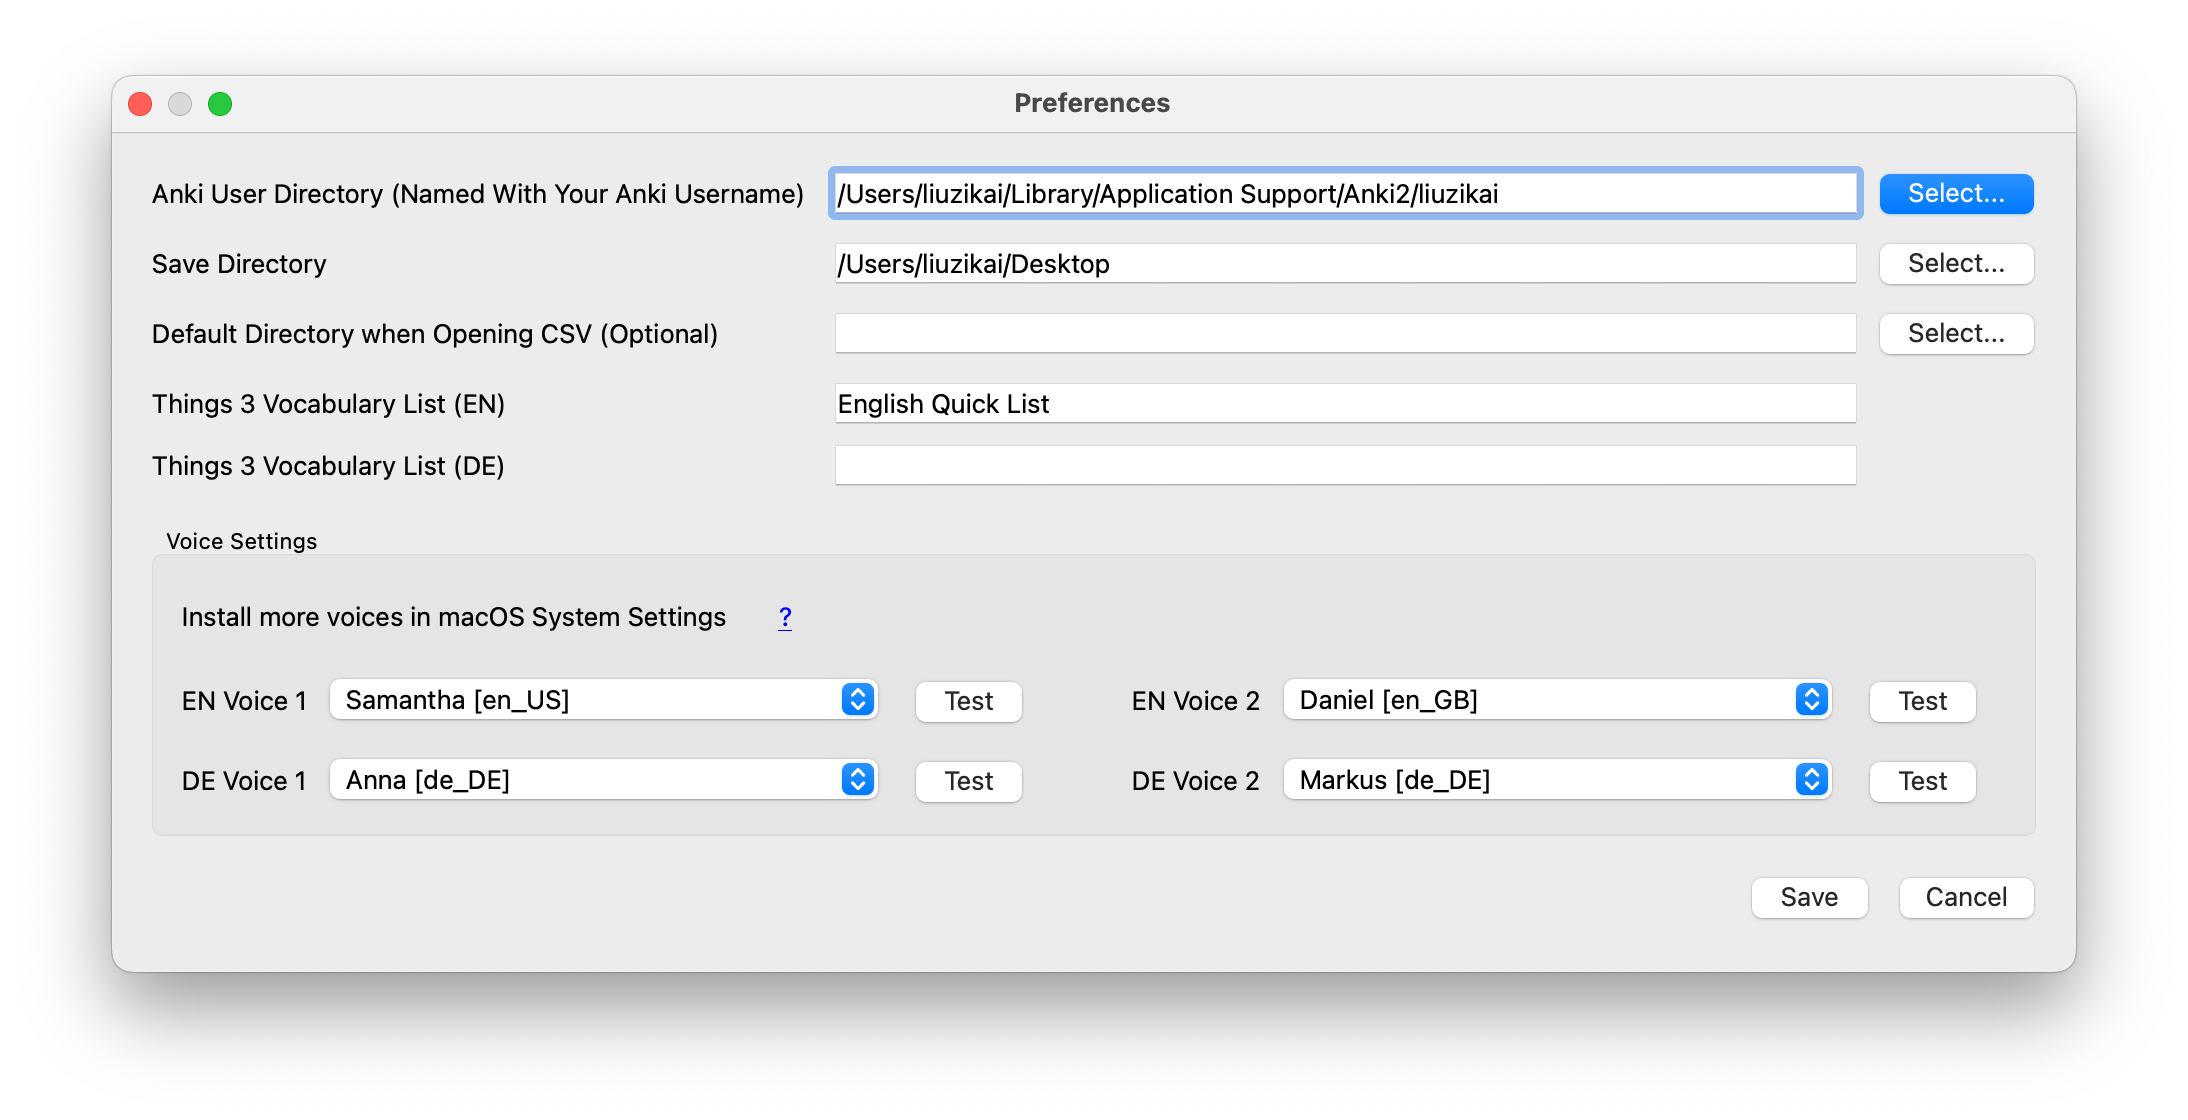
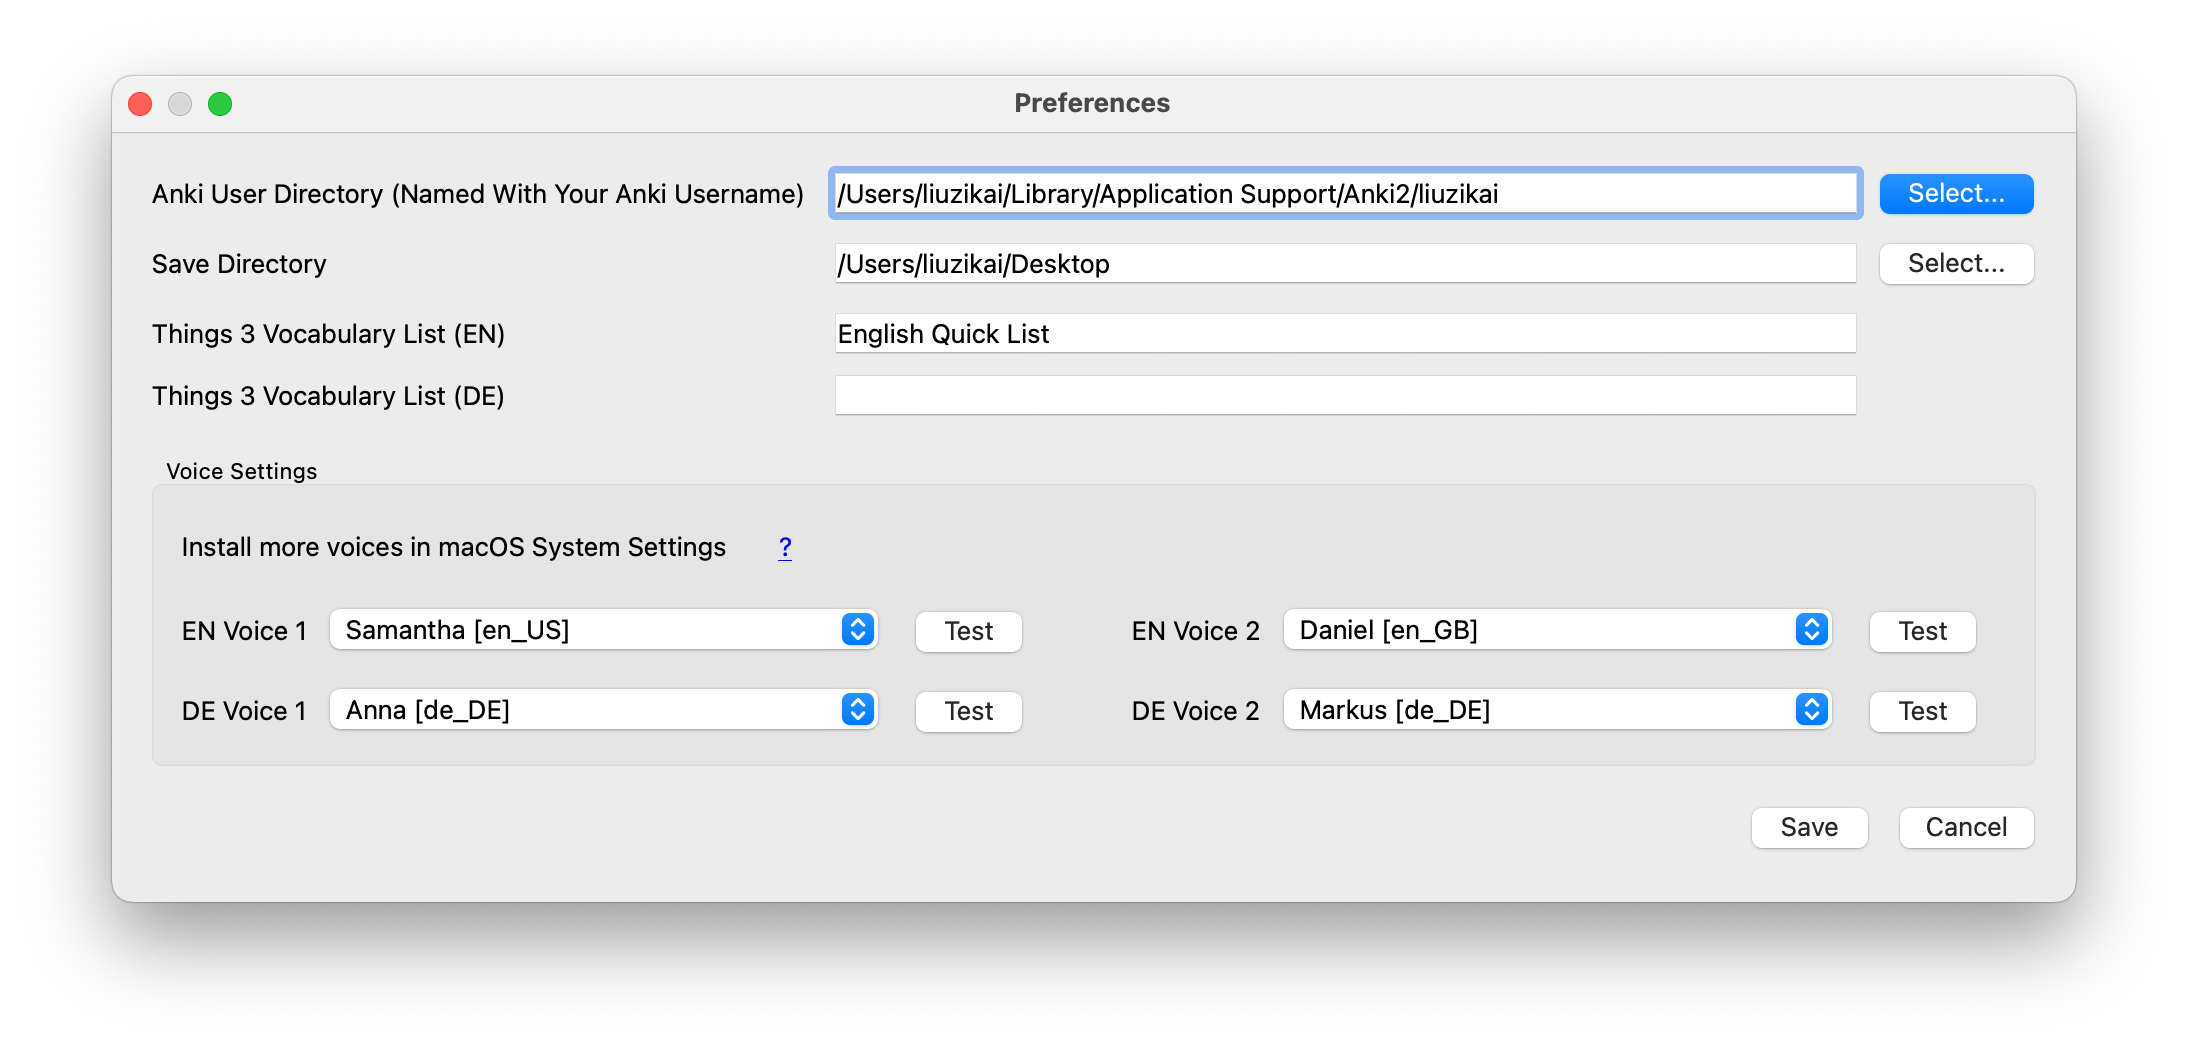
Remove CSV default directory setting
Replaced it with last CSV directory.

diff --git a/config.py b/config.py
@@ -40,7 +40,7 @@ def save_config_from_variables():
 
 
 def is_config_valid() -> bool:
-    global anki_user_dir, save_dir, csv_default_dir
+    global anki_user_dir, save_dir
     if anki_user_dir is None or not os.path.exists(anki_user_dir):
         return False
     if save_dir is None or not os.path.exists(save_dir):
@@ -84,7 +84,6 @@ class ConfigWindow(QtWidgets.QDialog):
 
         self.anki_user_dir_valid = False
         self.save_dir_valid = False
-        self.csv_default_dir_valid = False
 
         self.init_ui()
 
@@ -129,31 +128,23 @@ class ConfigWindow(QtWidgets.QDialog):
             lambda: self.select_directory('save_dir', "Select a Directory to Save",
                                           save_dir_edit.text()))
 
-        # CSV Default Directory row
-        csv_default_dir_edit, csv_default_dir_button = create_directory_row(
-            2, 'csv_default_dir', 'Default Directory when Opening CSV (Optional)')
-        csv_default_dir_edit.textChanged.connect(self.check_csv_default_dir)
-        csv_default_dir_button.clicked.connect(
-            lambda: self.select_directory('csv_default_dir', 'Select the Default Directory when Opening CSV',
-                                          csv_default_dir_edit.text()))
-
         # Things 3 Project (EN) row
         things3_list_en_label = QtWidgets.QLabel('Things 3 Vocabulary List (EN)')
         things3_list_en_edit = QtWidgets.QLineEdit()
-        layout.addWidget(things3_list_en_label, 3, 0)
-        layout.addWidget(things3_list_en_edit, 3, 1)
+        layout.addWidget(things3_list_en_label, 2, 0)
+        layout.addWidget(things3_list_en_edit, 2, 1)
         self.line_edits['things3_list_en'] = things3_list_en_edit
 
         # Thing 3 Project (DE) row
         things3_list_de_label = QtWidgets.QLabel('Things 3 Vocabulary List (DE)')
         things3_list_de_edit = QtWidgets.QLineEdit()
-        layout.addWidget(things3_list_de_label, 4, 0)
-        layout.addWidget(things3_list_de_edit, 4, 1)
+        layout.addWidget(things3_list_de_label, 3, 0)
+        layout.addWidget(things3_list_de_edit, 3, 1)
         self.line_edits['things3_list_de'] = things3_list_de_edit
 
         # Vertical spacer
         spacer = QtWidgets.QSpacerItem(0, 16, QtWidgets.QSizePolicy.Policy.Fixed, QtWidgets.QSizePolicy.Policy.Fixed)
-        layout.addItem(spacer, 6, 0, 1, 3)
+        layout.addItem(spacer, 5, 0, 1, 3)
 
         # Voice Setting GroupBox
         voice_setting_group = QtWidgets.QGroupBox("Voice Settings")
@@ -212,7 +203,7 @@ class ConfigWindow(QtWidgets.QDialog):
         self.connect_test_buttons()
 
         voice_setting_group.setLayout(voice_setting_layout)
-        layout.addWidget(voice_setting_group, 7, 0, 1, 3)
+        layout.addWidget(voice_setting_group, 6, 0, 1, 3)
 
         # Create Save and Cancel buttons
         self.save_button = QtWidgets.QPushButton('Save')
@@ -226,9 +217,9 @@ class ConfigWindow(QtWidgets.QDialog):
         button_layout.addWidget(self.save_button)
         button_layout.addWidget(self.cancel_button)
 
-        layout.addLayout(button_layout, 8, 1, 1, 2)
+        layout.addLayout(button_layout, 7, 1, 1, 2)
 
-        self.load_defaults()
+        self.load_ui_from_variables()
 
     def populate_voice_comboboxes(self):
         p = subprocess.Popen(f'"{bundle_files.lame_filename}" --version', shell=True, text=True,
@@ -295,16 +286,14 @@ class ConfigWindow(QtWidgets.QDialog):
             subprocess.Popen(command, shell=True,
                              stdout=subprocess.DEVNULL, stderr=subprocess.DEVNULL)
 
-    def load_defaults(self):
+    def load_ui_from_variables(self):
         self.line_edits['anki_user_dir'].setText(anki_user_dir)
         self.line_edits['save_dir'].setText(save_dir)
-        self.line_edits['csv_default_dir'].setText(csv_default_dir)
         self.line_edits['things3_list_en'].setText(things_vocab_list_en)
         self.line_edits['things3_list_de'].setText(things_vocab_list_de)
         # setText may not trigger textChanged if empty string
         self.check_anki_user_dir()
         self.check_save_dir()
-        self.check_csv_default_dir()
 
         voice_settings = [en_voice_1, en_voice_2, de_voice_1, de_voice_2]
         for i, voice_setting in enumerate(voice_settings):
@@ -321,12 +310,11 @@ class ConfigWindow(QtWidgets.QDialog):
             self.line_edits[option].setText(selected_directory)
 
     def save(self):
-        global anki_user_dir, save_dir, csv_default_dir, things_vocab_list_en, things_vocab_list_de
+        global anki_user_dir, save_dir, things_vocab_list_en, things_vocab_list_de
         global en_voice_1, en_voice_2, de_voice_1, de_voice_2
 
         anki_user_dir = self.line_edits['anki_user_dir'].text()
         save_dir = self.line_edits['save_dir'].text()
-        csv_default_dir = self.line_edits['csv_default_dir'].text()
         things_vocab_list_en = self.line_edits['things3_list_en'].text()
         things_vocab_list_de = self.line_edits['things3_list_de'].text()
 
@@ -349,7 +337,7 @@ class ConfigWindow(QtWidgets.QDialog):
         else:
             self.line_edits['anki_user_dir'].setStyleSheet("color: red;")
 
-        self.save_button.setEnabled(self.anki_user_dir_valid and self.save_dir_valid and self.csv_default_dir_valid)
+        self.save_button.setEnabled(self.anki_user_dir_valid and self.save_dir_valid)
 
     def check_save_dir(self):
         dir_path = self.line_edits['save_dir'].text()
@@ -360,18 +348,7 @@ class ConfigWindow(QtWidgets.QDialog):
         else:
             self.line_edits['save_dir'].setStyleSheet("color: red;")
 
-        self.save_button.setEnabled(self.anki_user_dir_valid and self.save_dir_valid and self.csv_default_dir_valid)
-
-    def check_csv_default_dir(self):
-        dir_path = self.line_edits['csv_default_dir'].text()
-        self.csv_default_dir_valid = (dir_path == "" or os.path.exists(dir_path))
-
-        if self.csv_default_dir_valid:
-            self.line_edits['csv_default_dir'].setStyleSheet("")
-        else:
-            self.line_edits['csv_default_dir'].setStyleSheet("color: red;")
-
-        self.save_button.setEnabled(self.anki_user_dir_valid and self.save_dir_valid and self.csv_default_dir_valid)
+        self.save_button.setEnabled(self.anki_user_dir_valid and self.save_dir_valid)
 
     def closeEvent(self, event):
         if self.initial_setup:

diff --git a/maple_vocab_utility.py b/maple_vocab_utility.py
@@ -569,6 +569,10 @@ class MapleUtility(QtWidgets.QMainWindow, Ui_MapleUtility):
         if csv_file:
             try:
                 self.data.reload_csv_data(csv_file)
+                csv_dir = os.path.dirname(csv_file)
+                if csv_dir != config.csv_default_dir:
+                    config.csv_default_dir = csv_dir
+                    config.save_config_from_variables()
             except RuntimeError as e:
                 self.report_error(str(e))
 

diff --git a/resource/user-manual.md b/resource/user-manual.md
@@ -2,40 +2,37 @@ Maple Anki Utility User Manual
 ==============================
 
 <!-- TOC -->
-
-* [Maple Anki Utility User Manual](#maple-anki-utility-user-manual)
 * [Overview](#overview)
 * [Initial Setup (Preferences)](#initial-setup--preferences-)
-    * [Add Voices](#add-voices)
+  * [Add Voices](#add-voices)
 * [Data Sources and Vocabulary List](#data-sources-and-vocabulary-list)
-    * [Kindle Vocabulary Builder](#kindle-vocabulary-builder)
-    * [CSV](#csv)
-    * [Things 3 List](#things-3-list)
-    * [Create a Single Entry Manually](#create-a-single-entry-manually)
-        * [Smart Duplication](#smart-duplication)
-    * [Navigate in the Vocabulary List](#navigate-in-the-vocabulary-list)
-    * [Learning Progress Indicators](#learning-progress-indicators)
+  * [Kindle Vocabulary Builder](#kindle-vocabulary-builder)
+  * [CSV](#csv)
+  * [Things 3 List](#things-3-list)
+  * [Create a Single Entry Manually](#create-a-single-entry-manually)
+    * [Smart Duplication](#smart-duplication)
+  * [Navigate in the Vocabulary List](#navigate-in-the-vocabulary-list)
+  * [Learning Progress Indicators](#learning-progress-indicators)
 * [Card Editor](#card-editor)
-    * [Subject and Card Type Selectors](#subject-and-card-type-selectors)
-    * [Pronunciation](#pronunciation)
-    * [Paraphrase](#paraphrase)
-        * [Add an Image](#add-an-image)
-    * [Extension](#extension)
-    * [Example](#example)
-    * [Hint](#hint)
-    * [Text Formatting](#text-formatting)
-    * [Confirm and Discard](#confirm-and-discard)
+  * [Subject and Card Type Selectors](#subject-and-card-type-selectors)
+  * [Pronunciation](#pronunciation)
+  * [Paraphrase](#paraphrase)
+    * [Add an Image](#add-an-image)
+  * [Extension](#extension)
+  * [Example](#example)
+  * [Hint](#hint)
+  * [Text Formatting](#text-formatting)
+  * [Confirm and Discard](#confirm-and-discard)
 * [Web Query](#web-query)
-    * [Collins Web Directory](#collins-web-directory)
-    * [Google](#google)
-    * [Google Images](#google-images)
-    * [Google Translate](#google-translate)
-    * [Navigate Forward and Back](#navigate-forward-and-back)
+  * [Collins Web Directory](#collins-web-directory)
+  * [Google](#google)
+  * [Google Images](#google-images)
+  * [Google Translate](#google-translate)
+  * [Navigate Forward and Back](#navigate-forward-and-back)
 * [Import to Anki](#import-to-anki)
 * [Miscellaneous](#miscellaneous)
-    * [Path of the Configuration File](#path-of-the-configuration-file)
-    * [Backup of Kindle and CSV Database](#backup-of-kindle-and-csv-database)
-
+  * [Path of the Configuration File](#path-of-the-configuration-file)
+  * [Backup of Kindle and CSV Database](#backup-of-kindle-and-csv-database)
 <!-- TOC -->
 
 # Overview
@@ -48,8 +45,7 @@ It generates a txt file that contains the cards to be batch imported to Anki.
 > Why not make it an Anki add-on? Currently, there is no plan for that, as the utility consists of many parts.
 > For example, it uses [QWebKitView](https://github.com/liuzikai/pyqt-macos-native-webview), wrapping macOS native
 > WKWebView in PyQt. Building it as an Anki add-on may not bring many benefits but can introduce a lot of difficulties
-> to
-> test and debug.
+> to test and debug.
 
 ![Annotated](utility-annotated.png)
 
@@ -80,8 +76,6 @@ in the menu bar.
 * Anki User Directory: select your user directory (named with your Anki username). This is necessary to put generate
   audio files in the correct place.
 * Save Directory: path to output the generated cards.
-* Default Directory when Opening CSV: as the title suggests. Save you some time if you are working on a CSV vocabulary
-  list.
 * Things 3 Vocabulary List (EN/DE): Things 3 projects as data sources for English/German learning modes.
 * Voice Settings: choose the voice to generate pronunciation audio.
 
